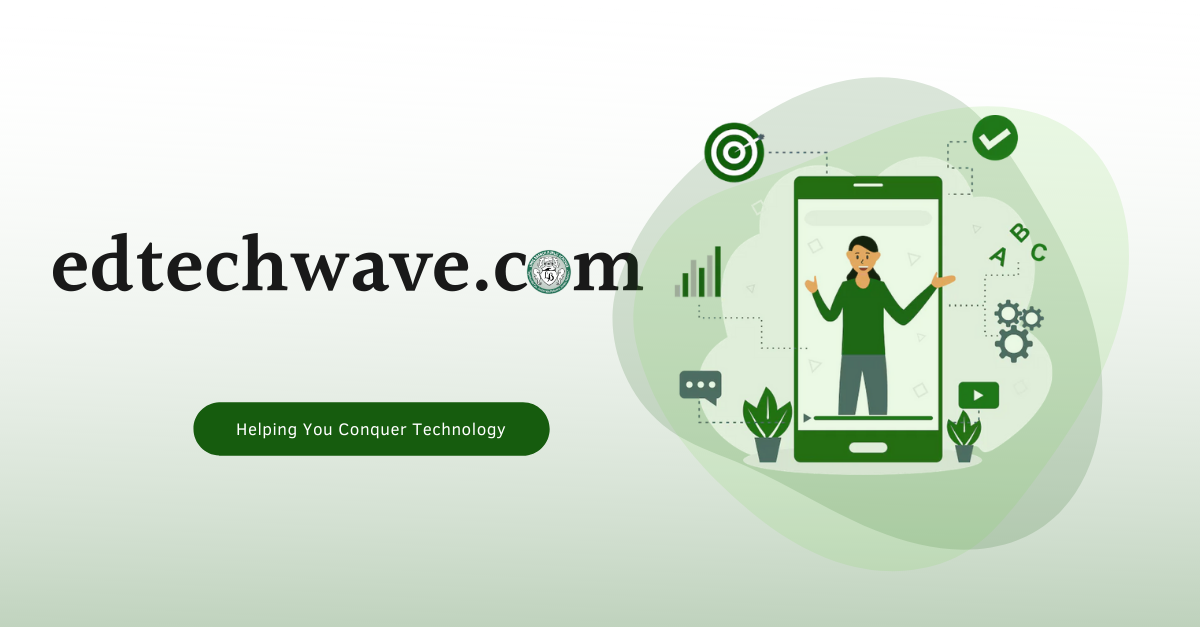
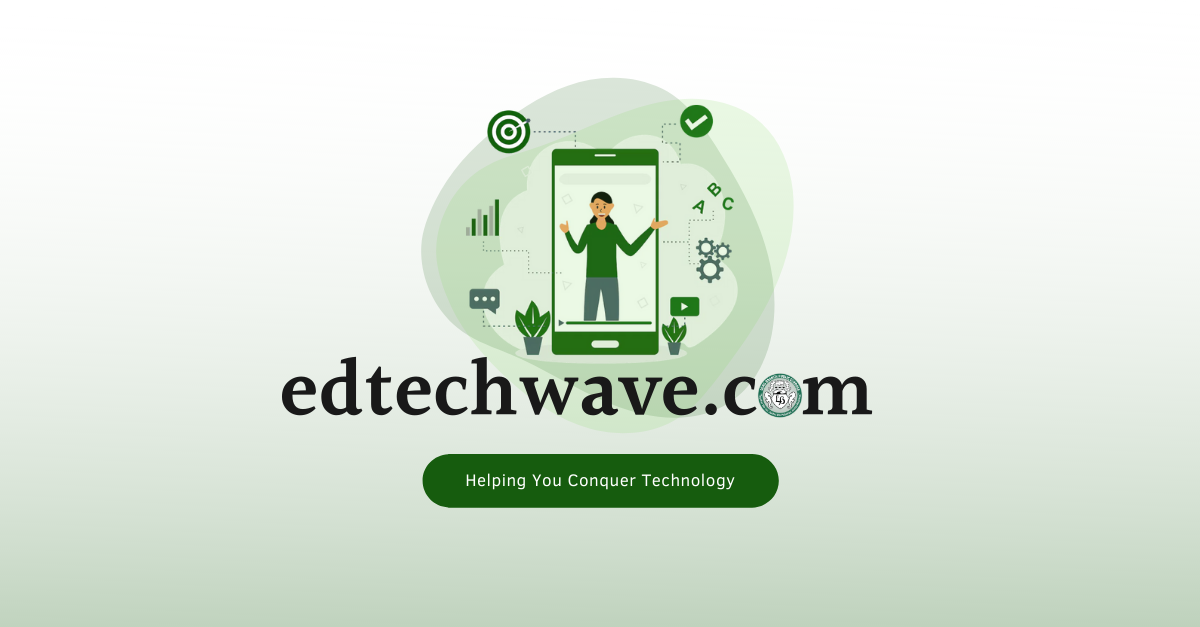
updating readme and siteImage

Changed region(s): [[0.0308, 0.1212, 0.9558, 0.8788]]

diff --git a/README.md b/README.md
@@ -1,39 +1,11 @@
 <!-- AUTO-GENERATED-CONTENT:START (STARTER) -->
 <p align="center">
-  <a href="https://www.gatsbyjs.com">
-    <img alt="Gatsby" src="https://www.gatsbyjs.com/Gatsby-Monogram.svg" width="60" />
+  <a href="https://www.edtechwave.com">
+    <img alt="EdTechWave.com" src="https://www.edtechwave.com/defaultSiteImage.png" width="" />
   </a>
 </p>
 <h1 align="center">
-  Neil's "Hello Tailwind" Starter
+  EdTechWave.com
 </h1>
 
-Kick off your project with this hello-world boilerplate. It speeds up my process of developing a Gatsby site.
-
-## What Packages are Included?
-
-The following packages are included so you don't have to type them all in
-
-### Styles & UI
-
-1. TailwindCSS
-2. HeadlessUI (By Tailwind)
-3. React Icons
-
-### Plugins
-
-1. Google Gtag
-2. Image
-3. MDX
-4. PostCSS
-5. React Helmet
-6. Sharp
-7. Sitemap
-
-### Source
-
-1. Filesystem
-
-### Transformer
-
-1. Sharp
+Dedicated to helping teachers master technology in the classroom.
